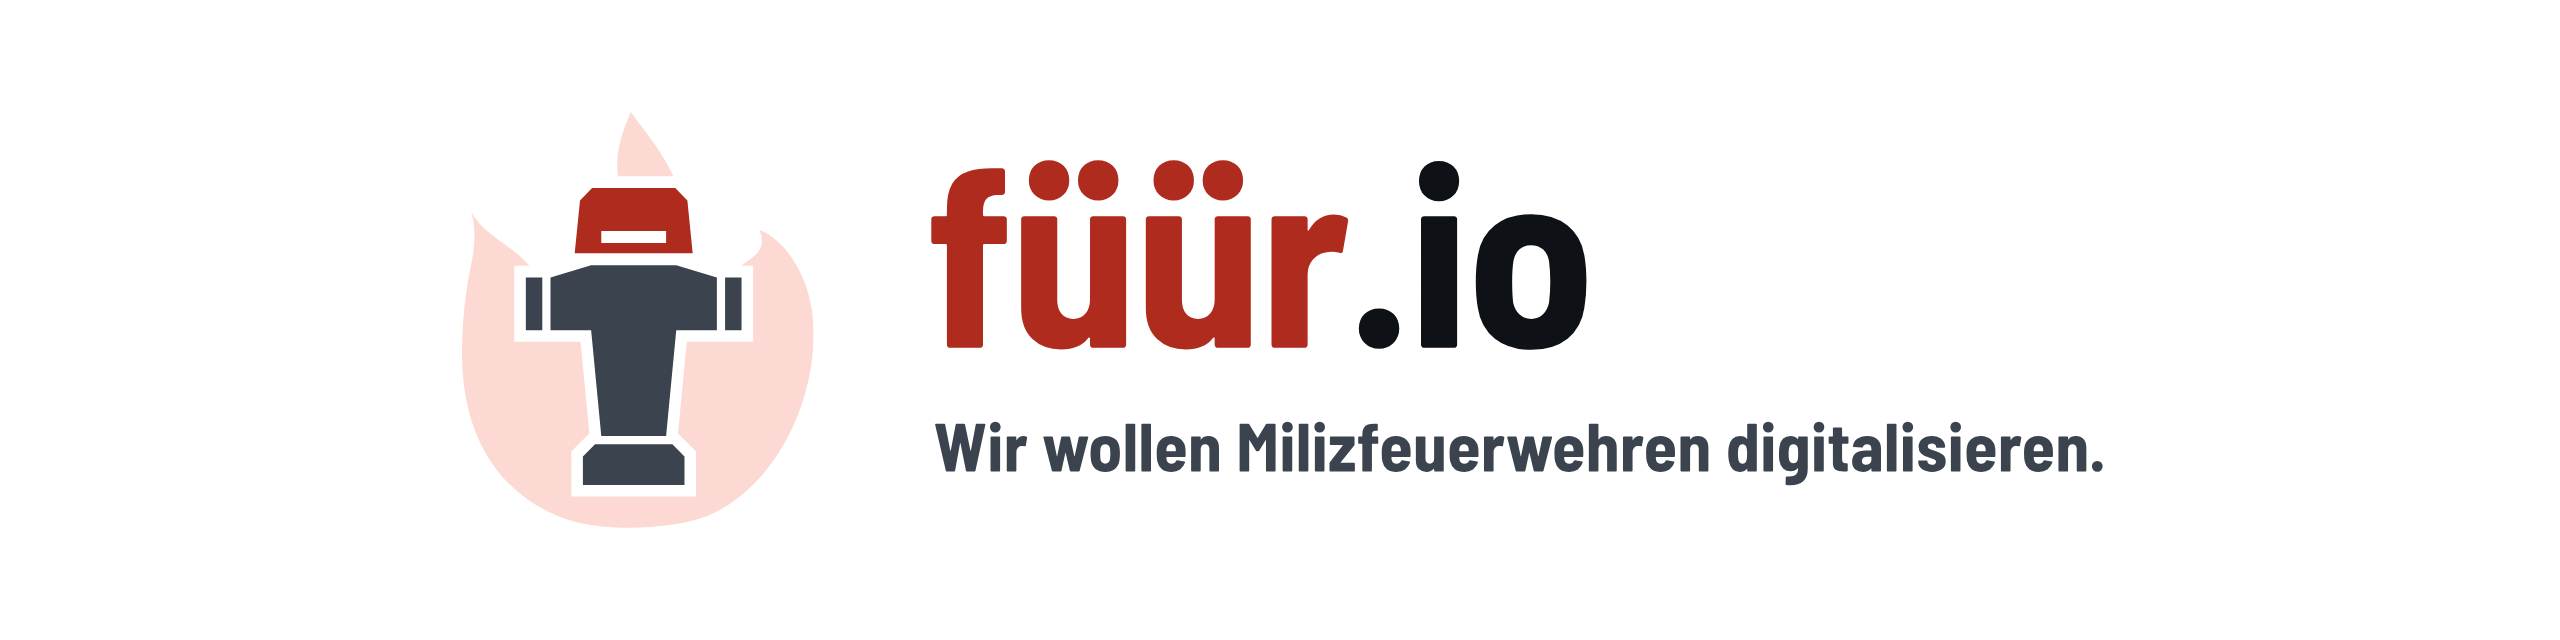
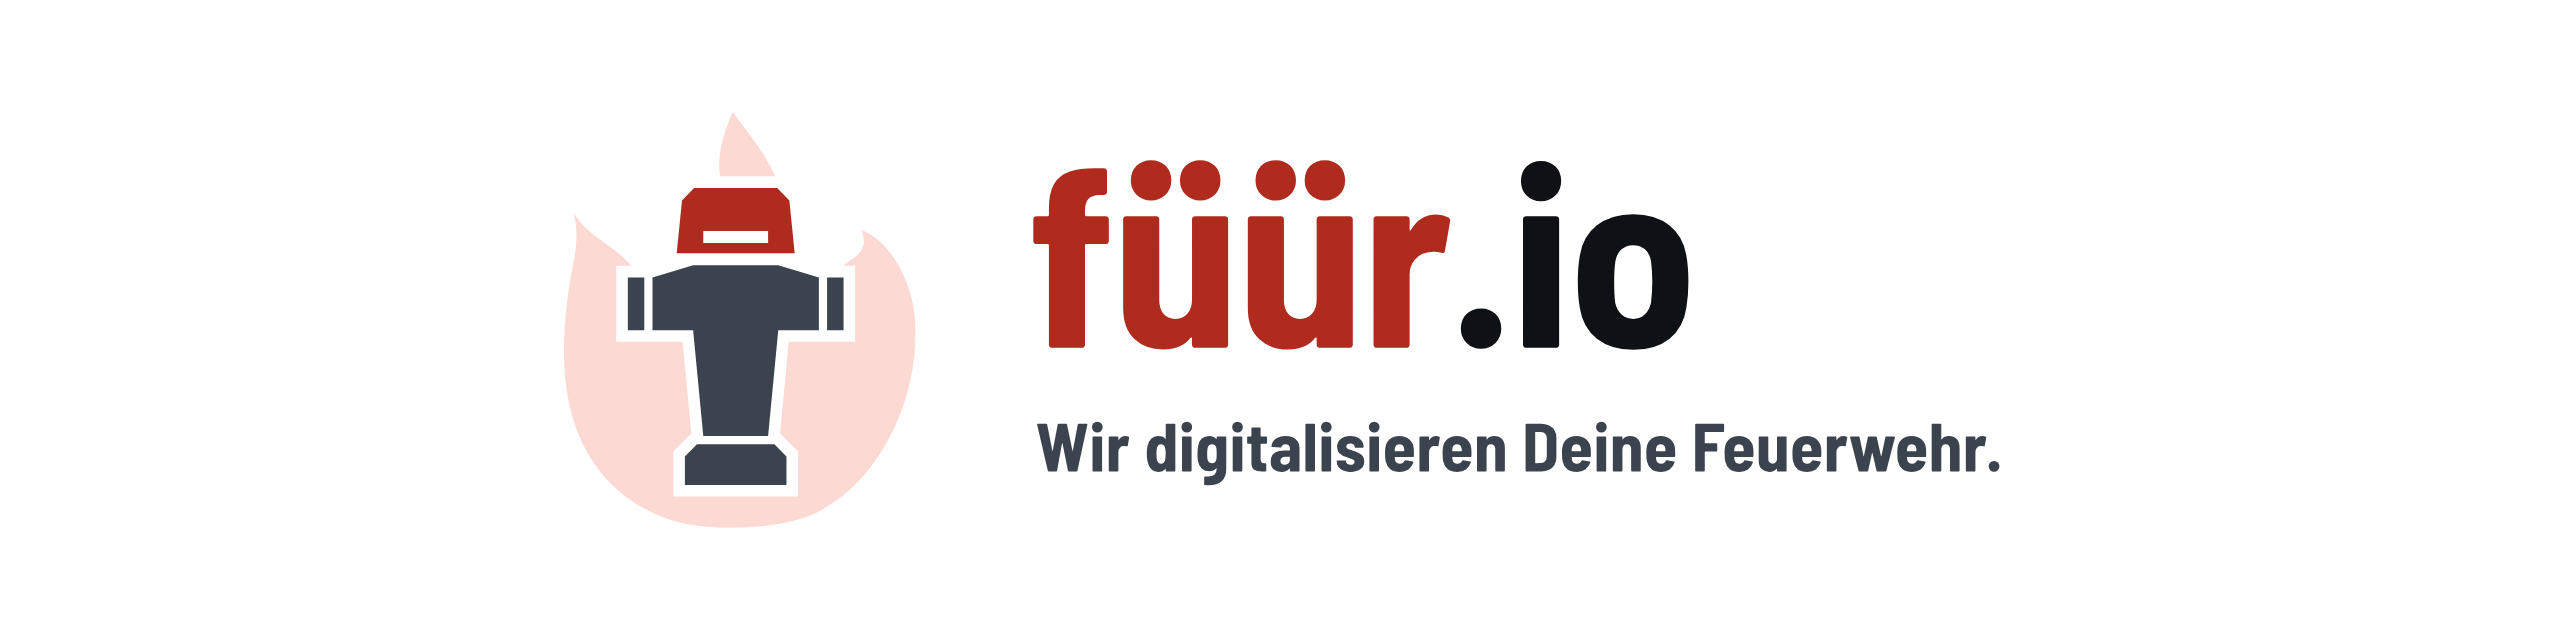
docs(profil): Satz «Wir digitalisieren Deine Feuerwehr.», Header neu

Changed region(s): [[0.1562, 0.1875, 0.8438, 0.8438]]

diff --git a/profile/README.md b/profile/README.md
@@ -1,7 +1,7 @@
 <p align="center">
-  <img src="header-light.png" alt="füür.io – Wir wollen Milizfeuerwehren digitalisieren." width="100%">
+  <img src="header-light.png" alt="füür.io – Wir digitalisieren Deine Feuerwehr." width="100%">
 </p>
 
 ## füür.io
 
-Wir wollen Milizfeuerwehren digitalisieren.
+Wir digitalisieren Deine Feuerwehr.
